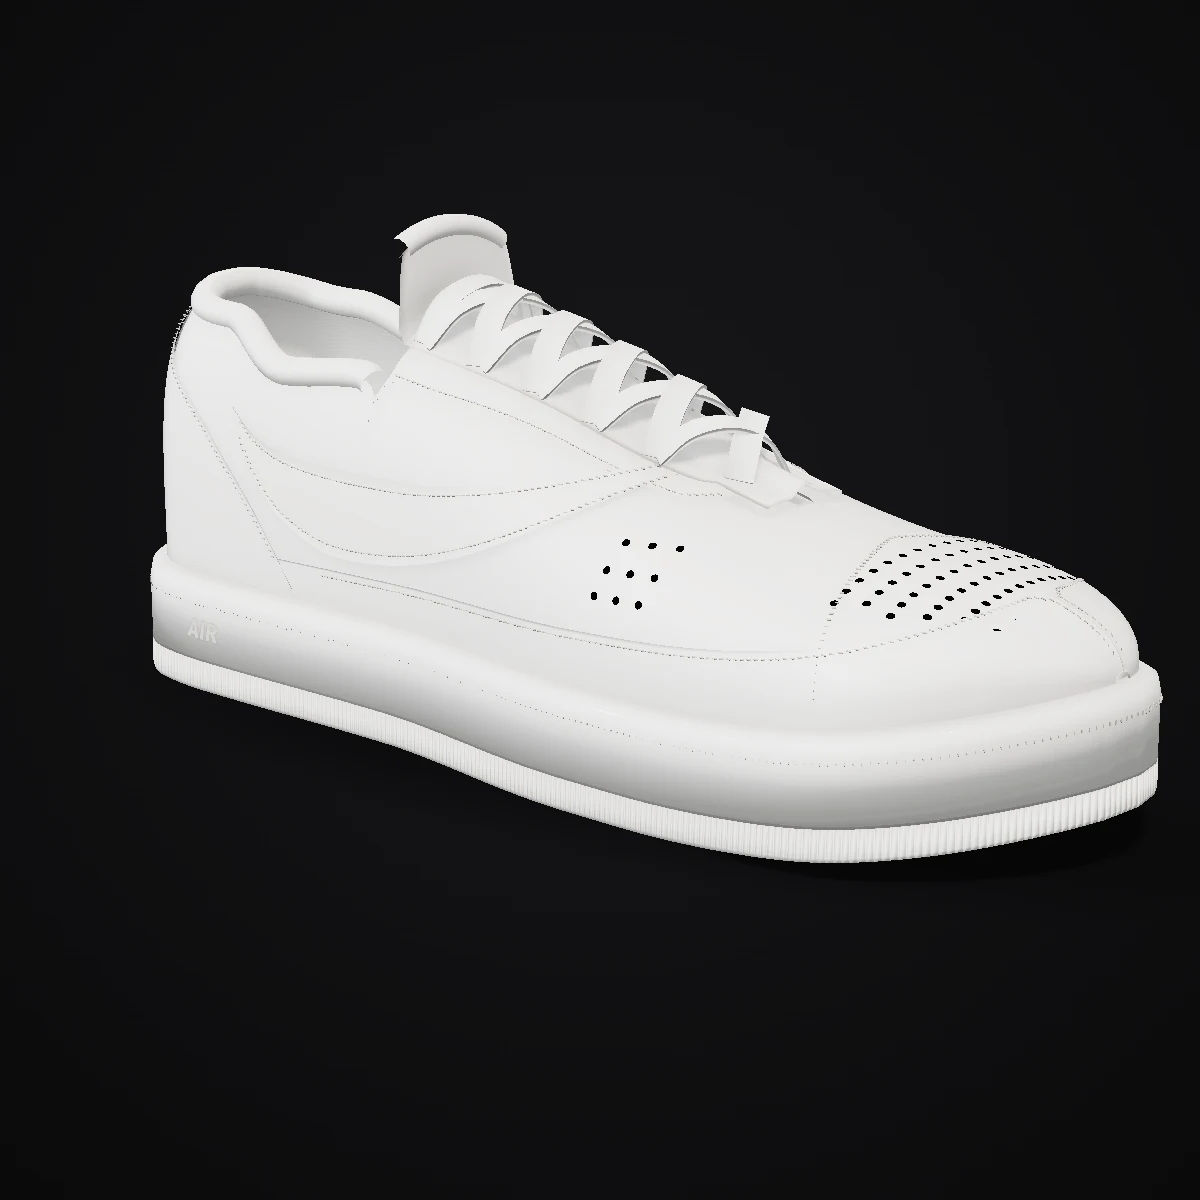
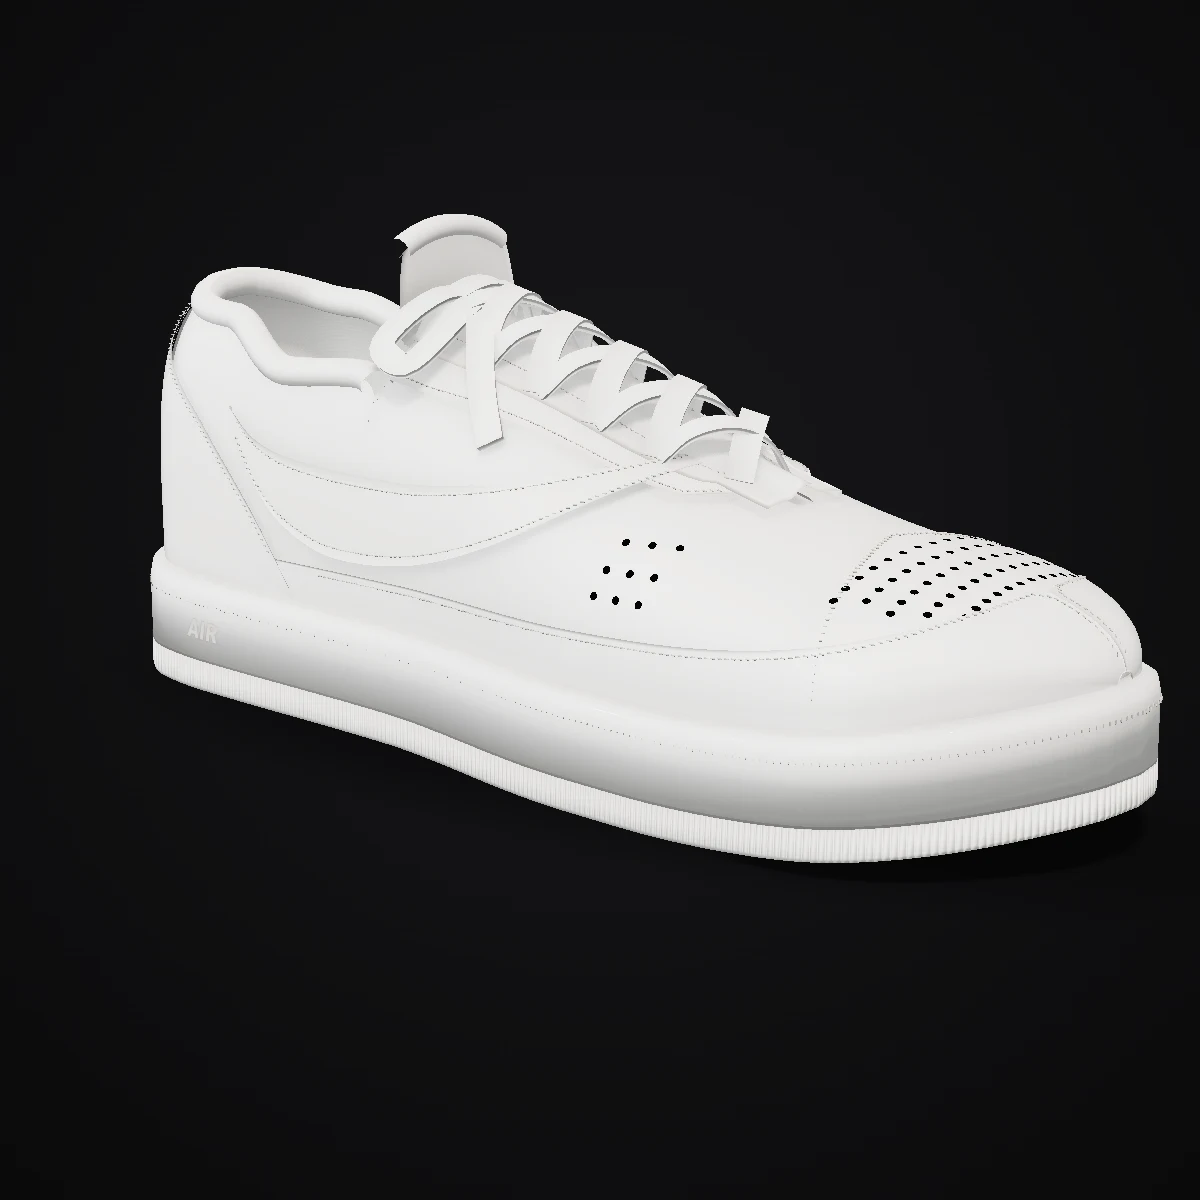
Add lace bows, thicker overlays, refined Mexico 66 stripes; update docs

diff --git a/src/three/models.js b/src/three/models.js
@@ -55,12 +55,12 @@ const perfGrid = (t0, rows, cols, dt, th0, dth, lift = 0.0032, r = 0.0034, tMax 
 }
 // Heel tab: strip over the back centre line, from sole to a height
 const heelTab = (half, yTop, o = {}) => (ctx) => {
-  const { slab, surf, backAt, S, spring, res, add } = ctx
+  const { slab, surf, backAt, S, spring, res, add, K } = ctx
   add(slab((u, v) => {
     const y0 = S(0.002) + spring(0.002) + (o.from ?? 0.004)
     const { t, th } = backAt(lerp(y0, yTop, u), (v - 0.5) * 2 * half * (1 - (o.taper ?? 0) * u))
     return surf(t, th)
-  }, res(30), res(8), o.d ?? 0.0028, { lift: o.lift ?? 0.0018 }), o.role ?? 'tab')
+  }, res(30), res(8), (o.d ?? 0.0028) * K, { lift: (o.lift ?? 0.0018) * K }), o.role ?? 'tab')
 }
 
 // Canvas drawings for decals; colours may come from the colorway
@@ -111,7 +111,7 @@ export const MODELS = {
     collarPad: 0.014, collarFront: -0.012,
     eyestay: { w: 0.055 },
     tongue: { wide: 0.03, rise: 0.07, back: 0.012, lift: 0.007, d: 0.012, rim: 0.011, tag: [0.034, 0.024] },
-    laces: { rows: 6, w: 0.024, d: 0.0045, arch: 0.016, start: 0.02, end: 0.008 },
+    laces: { rows: 6, w: 0.024, d: 0.0045, arch: 0.016, start: 0.02, end: 0.008, bow: { loop: 0.085, tail: 0.11, drop: 0.12 } },
     sole: { height: [[0, 0.108], [0.6, 0.098], [1, 0.092]], layers: CUP(0.021), lines: [{ grow: 0.0212, h: 0.29 }], stitch: { grow: 0.0208, h: 0.8 } },
     stripeAnchor: [0.36, 0.09],
     materials: { out: 'ribbed' },
@@ -150,7 +150,7 @@ export const MODELS = {
     collarPad: 0.012, collarFront: -0.01,
     eyestay: { w: 0.05 },
     tongue: { wide: 0.028, rise: 0.06, back: 0.005, lift: 0.006, d: 0.01, rim: 0.009, tag: [0.034, 0.03] },
-    laces: { rows: 9, w: 0.02, d: 0.004, arch: 0.012, start: 0.015, end: 0.008 },
+    laces: { rows: 9, w: 0.02, d: 0.004, arch: 0.012, start: 0.015, end: 0.008, bow: { loop: 0.075, tail: 0.1, drop: 0.12 } },
     sole: { height: [[0, 0.075], [0.6, 0.068], [1, 0.065]], layers: CUP(0.016), lines: [{ grow: 0.0162, h: 0.3 }], stitch: { grow: 0.0158, h: 0.75 } },
     stripeAnchor: [0.33, 0.11],
     materials: { tongue: 'nylon' },
@@ -180,7 +180,7 @@ export const MODELS = {
     collarPad: 0.008, collarFront: -0.012,
     eyestay: { w: 0.036 },
     tongue: { wide: 0.026, rise: 0.06, back: 0.02, lift: 0.004, d: 0.006, rim: 0.004, tag: [0.03, 0.022] },
-    laces: { rows: 7, w: 0.016, d: 0.003, arch: 0.01, start: 0.02, end: 0.008 },
+    laces: { rows: 7, w: 0.016, d: 0.003, arch: 0.01, start: 0.02, end: 0.008, bow: { loop: 0.07, tail: 0.095, drop: 0.11 } },
     sole: { height: [[0, 0.04], [0.6, 0.036], [1, 0.034]], toeWrap: 0.025, layers: FLAT(0.009) },
     stripeAnchor: [0.4, 0.1],
     materials: { toe: 'suede', out: 'rubber' },
@@ -209,7 +209,7 @@ export const MODELS = {
     collarPad: 0.009, collarFront: -0.01,
     eyestay: { w: 0 },
     tongue: { wide: 0.03, rise: 0.02, back: 0.0, lift: 0.002, d: 0.004, rim: 0.005 },
-    laces: { rows: 6, w: 0.009, style: 'rope', arch: 0.014, start: 0.02, end: 0.008, eyelets: 'none' },
+    laces: { rows: 6, w: 0.009, style: 'rope', arch: 0.014, start: 0.02, end: 0.008, eyelets: 'none', bow: { loop: 0.08, tail: 0.1, drop: 0.11 } },
     sole: {
       height: [[0, 0.125], [0.5, 0.105], [1, 0.09]],
       layers: [
@@ -250,7 +250,7 @@ export const MODELS = {
     collarPad: 0.016, collarFront: -0.012,
     eyestay: { w: 0.05 },
     tongue: { wide: 0.03, rise: 0.075, back: 0.012, lift: 0.007, d: 0.012, rim: 0.011, tag: [0.03, 0.03] },
-    laces: { rows: 6, w: 0.022, d: 0.004, arch: 0.014, start: 0.02, end: 0.008 },
+    laces: { rows: 6, w: 0.022, d: 0.004, arch: 0.014, start: 0.02, end: 0.008, bow: { loop: 0.085, tail: 0.11, drop: 0.12 } },
     sole: { height: [[0, 0.11], [0.6, 0.098], [1, 0.092]], layers: CUP(0.021), lines: [{ grow: 0.0212, h: 0.3 }], stitch: { grow: 0.0208, h: 0.78 } },
     stripeAnchor: [0.45, 0.1],
     materials: { out: 'ribbed' },
@@ -281,7 +281,7 @@ export const MODELS = {
     collarPad: 0.016, collarFront: -0.012,
     eyestay: { w: 0.045 },
     tongue: { wide: 0.03, rise: 0.06, back: 0.015, lift: 0.007, d: 0.01, rim: 0.01, tag: [0.03, 0.03] },
-    laces: { rows: 7, w: 0.016, d: 0.003, arch: 0.012, start: 0.02, end: 0.008 },
+    laces: { rows: 7, w: 0.016, d: 0.003, arch: 0.012, start: 0.02, end: 0.008, bow: { loop: 0.075, tail: 0.1, drop: 0.11 } },
     sole: {
       height: [[0, 0.15], [0.35, 0.13], [0.7, 0.095], [1, 0.085]],
       layers: [
@@ -325,7 +325,7 @@ export const MODELS = {
     collarPad: 0.005, collarFront: -0.006, collarOut: 0.3,
     eyestay: { w: 0.03 },
     tongue: { wide: 0.03, rise: 0.035, back: 0.005, lift: 0.004, d: 0.005, rim: 0.004 },
-    laces: { rows: 9, w: 0.016, d: 0.003, arch: 0.01, start: 0.015, end: 0.008, eyelets: 'metal' },
+    laces: { rows: 9, w: 0.016, d: 0.003, arch: 0.01, start: 0.015, end: 0.008, eyelets: 'metal', bow: { loop: 0.07, tail: 0.1, drop: 0.13 } },
     sole: {
       height: [[0, 0.088], [0.6, 0.085], [1, 0.085]],
       layers: VULC(0.011),
@@ -366,7 +366,7 @@ export const MODELS = {
     collarPad: 0.018, collarFront: -0.012, collarOut: 0.3,
     eyestay: { w: 0.045 },
     tongue: { wide: 0.03, rise: 0.06, back: 0.012, lift: 0.006, d: 0.01, rim: 0.01, tag: [0.03, 0.022] },
-    laces: { rows: 6, w: 0.016, d: 0.0035, arch: 0.012, start: 0.02, end: 0.008, eyelets: 'metal' },
+    laces: { rows: 6, w: 0.016, d: 0.0035, arch: 0.012, start: 0.02, end: 0.008, eyelets: 'metal', bow: { loop: 0.075, tail: 0.1, drop: 0.11 } },
     sole: {
       height: [[0, 0.088], [0.6, 0.084], [1, 0.084]],
       layers: VULC(0.011),
@@ -399,7 +399,7 @@ export const MODELS = {
     collarPad: 0.006, collarFront: -0.012,
     eyestay: { w: 0.03 },
     tongue: { wide: 0.024, rise: 0.05, back: 0.02, lift: 0.004, d: 0.005, rim: 0.004, tag: [0.026, 0.02] },
-    laces: { rows: 7, w: 0.014, d: 0.0028, arch: 0.009, start: 0.02, end: 0.008 },
+    laces: { rows: 7, w: 0.014, d: 0.0028, arch: 0.009, start: 0.02, end: 0.008, bow: { loop: 0.065, tail: 0.09, drop: 0.1 } },
     sole: { height: [[0, 0.036], [0.6, 0.03], [1, 0.03]], toeWrap: 0.03, layers: FLAT(0.008) },
     stripeAnchor: [0.47, 0.11],
     materials: { toe: 'suede', out: 'rubber' },
@@ -416,8 +416,8 @@ export const MODELS = {
       mudguard([[0.56, 0.004], [0.64, 0.03], [0.76, 0.045], [0.88, 0.06], [0.95, 0.09], [1, 0.2]], { role: 'toe', d: 0.0026 }),
       counter([[0, 0.23], [0.05, 0.17], [0.1, 0.11], [0.15, 0.05], [0.18, 0.004]]),
       // Crossing stripes: two thick S-curves
-      ribbon('stripe', [[0.24, 0.034], [0.32, 0.046], [0.4, 0.074], [0.46, 0.108], [0.51, 0.142], [0.56, 0.166]], [[0.24, 0.03], [0.4, 0.046], [0.56, 0.036]], 0.24, 0.56),
-      ribbon('stripe', [[0.37, 0.166], [0.42, 0.15], [0.48, 0.118], [0.54, 0.08], [0.6, 0.05], [0.67, 0.034]], [[0.37, 0.034], [0.5, 0.046], [0.67, 0.03]], 0.37, 0.67, { lift: 0.0048 }),
+      ribbon('stripe', [[0.22, 0.03], [0.32, 0.038], [0.4, 0.056], [0.46, 0.082], [0.51, 0.112], [0.55, 0.142], [0.585, 0.172]], [[0.22, 0.016], [0.32, 0.034], [0.45, 0.044], [0.58, 0.02]], 0.22, 0.58),
+      ribbon('stripe', [[0.36, 0.172], [0.39, 0.142], [0.43, 0.112], [0.48, 0.082], [0.54, 0.056], [0.61, 0.038], [0.69, 0.03]], [[0.36, 0.018], [0.48, 0.044], [0.6, 0.034], [0.68, 0.016]], 0.36, 0.68, { lift: 0.0048 }),
       heelTab(0.018, 0.2, { taper: 0.1 }),
     ],
   },

diff --git a/src/three/shoe.js b/src/three/shoe.js
@@ -187,6 +187,7 @@ function build(key, detail) {
 
   // Panels: 't' mode spans t, with th range per t on each side
   const seams = []
+  const K = M.thick ?? 1.7 // overlay thickness scale (real leather is ~1.5 mm)
   const inset = (t, th, dist, dir) => th + (dir * dist) / dTh(t, th)
   const panel = (role, t0, t1, a, b, o = {}) => {
     const sides = o.sides ?? [1, -1]
@@ -199,14 +200,14 @@ function build(key, detail) {
       add(slab((u, v) => {
         const t = lerp(t0, t1, (1 - cos(PI * u)) / 2), [A, B] = range(t)
         return surf(t, mirror(lerp(A, B, v), side))
-      }, res(o.nu ?? 60), res(o.nv ?? 10), o.d ?? 0.0022, { lift: o.lift ?? 0.0006, walls: o.walls }), role)
+      }, res(o.nu ?? 60), res(o.nv ?? 10), (o.d ?? 0.0022) * K, { lift: (o.lift ?? 0.0006) * K, walls: o.walls }), role)
       if (X && o.stitch) for (const edge of o.stitch) {
         const path = []
         for (let i = 0; i <= 80; i++) {
           const t = lerp(t0 + (o.stitchTrim ?? 0.004), t1 - (o.stitchTrim ?? 0.004), i / 80), [A, B] = range(t)
           if (B - A < 0.02) continue
           const th = edge === 'b' ? inset(t, B, 0.006, -1) : inset(t, A, 0.006, 1)
-          path.push({ p: PO(t, mirror(th, side), (o.lift ?? 0.0006) + (o.d ?? 0.0022)), n: N(t, mirror(th, side)) })
+          path.push({ p: PO(t, mirror(th, side), ((o.lift ?? 0.0006) + (o.d ?? 0.0022)) * K), n: N(t, mirror(th, side)) })
         }
         if (path.length > 2) seams.push(path)
       }
@@ -217,19 +218,19 @@ function build(key, detail) {
     add(slab((u, v) => {
       const th = lerp(th0, th1, u)
       return surf(lerp(a(th), b(th), v), th)
-    }, res(o.nu ?? 60), res(o.nv ?? 20), o.d ?? 0.0022, { lift: o.lift ?? 0.0004, walls: o.walls }), role)
+    }, res(o.nu ?? 60), res(o.nv ?? 20), (o.d ?? 0.0022) * K, { lift: (o.lift ?? 0.0004) * K, walls: o.walls }), role)
     if (X && o.stitch) {
       const path = []
       for (let i = 0; i <= 90; i++) {
         const th = lerp(th0 + 0.03, th1 - 0.03, i / 90), t = a(th) + 0.009
-        path.push({ p: PO(t, th, (o.lift ?? 0.0004) + (o.d ?? 0.0022)), n: N(t, th) })
+        path.push({ p: PO(t, th, ((o.lift ?? 0.0004) + (o.d ?? 0.0022)) * K), n: N(t, th) })
       }
       seams.push(path)
     }
   }
   // Side graphics: (u, v) -> [t, yRel]
   const band = (role, fn, o = {}) => {
-    const lift = o.lift ?? 0.0016, d = o.d ?? 0.0018
+    const lift = (o.lift ?? 0.0016) * K, d = (o.d ?? 0.0018) * K
     for (const side of o.sides ?? [1, -1]) {
       add(slab((u, v) => {
         const [t, y] = fn(u, v)
@@ -252,6 +253,7 @@ function build(key, detail) {
   // Punched holes at (t, th) positions on the given surface lift
   const perfs = (list, r = 0.0032, lift = 0.0028) => {
     if (!X) return
+    lift *= K
     const o = new THREE.Object3D(), mats = []
     for (const [t, th] of list) {
       const p = PO(t, th, lift), n = N(t, th)
@@ -273,7 +275,7 @@ function build(key, detail) {
         const th = o.onSole ? 0 : thY(t, y, side)
         const p = o.onSole
           ? V(xOf(t), y * S(t) + spring(t), side * (W(t) + o.grow) * (side < 0 ? zScale(t, -1) : 1))
-          : PO(t, th, o.lift ?? 0.005)
+          : PO(t, th, (o.lift ?? 0.005) * K)
         const n = o.onSole ? V(0, 0, side) : N(t, th)
         const uu = side > 0 || o.mirrorMedial ? u : 1 - u
         pts.push({ p, n, u: uu, v })
@@ -287,11 +289,11 @@ function build(key, detail) {
     const nu = 16, nv = 8, pts = []
     for (let i = 0; i <= nu; i++) for (let j = 0; j <= nv; j++) {
       const u = i / nu, v = j / nv, { t, th } = backAt(lerp(o.y0, o.y1, v), (0.5 - u) * 2 * o.half)
-      pts.push({ p: PO(t, th, o.lift ?? 0.006), n: N(t, th), u, v })
+      pts.push({ p: PO(t, th, (o.lift ?? 0.006) * K), n: N(t, th), u, v })
     }
     parts.push({ geometry: gridGeometry(pts, nu, nv), role: 'decal', decal: { key, draw, w: o.w ?? 256, h: o.h ?? 256 } })
   }
-  const ctx = { decal, backDecal, perfs, backAt, seams, P, N, PO, W, H, S, spring, thY, thZ, thB, zB, yRel, tO, tS, tE, mirror, panel, cap, band, add, addInstanced, X, res, slab, surf, knots, fC, fG }
+  const ctx = { K, decal, backDecal, perfs, backAt, seams, P, N, PO, W, H, S, spring, thY, thZ, thB, zB, yRel, tO, tS, tE, mirror, panel, cap, band, add, addInstanced, X, res, slab, surf, knots, fC, fG }
   for (const fn of M.panels ?? []) fn(ctx)
 
   // Eyestays along the throat
@@ -416,14 +418,33 @@ function build(key, detail) {
     const [pts, nrm] = lacePath(rows[0], eyeZ(rows[0]), rows[0], -eyeZ(rows[0]))
     add(laceGeo(pts, nrm), 'lace')
   }
-  // Bow resting on the top bar
+  // Bow on the top bar: knot, two loops lying on the upper, two hanging ends
   if (L.bow) {
-    const c = tongueAt(rows[0] + 0.012, 0, laceLift + 0.004)
+    const tk = rows[0] + 0.006, k = tongueAt(tk, 0, laceLift + 0.006)
+    const on = (t, z, lift) => { const th = z >= 0 ? thZ(t, min(abs(z), W(t) * 0.98)) : thZ(t, min(abs(z), W(t) * 0.98), -1); return { p: PO(t, th, lift), n: N(t, th) } }
+    const knot = new THREE.SphereGeometry(L.w * 0.42, 12, 8)
+    knot.scale(1.3, 0.7, 1)
+    knot.translate(k.p.x, k.p.y + L.w * 0.15, k.p.z)
+    add(knot, 'lace')
     for (const side of [1, -1]) {
-      const loop = [c.p.clone(), c.p.clone().add(V(-0.012, 0.012, side * 0.035)), c.p.clone().add(V(0.022, 0.02, side * 0.07)), c.p.clone().add(V(0.05, 0.008, side * 0.05)), c.p.clone().add(V(0.012, 0.002, side * 0.008))]
-      add(laceGeo(loop, loop.map(() => V(0, 1, 0))), 'lace')
-      const tail = [c.p.clone(), c.p.clone().add(V(0.03, -0.004, side * 0.03)), c.p.clone().add(V(0.06, -0.03, side * 0.075)), c.p.clone().add(V(0.075, -0.07, side * 0.11))]
-      add(laceGeo(tail, tail.map(() => V(side * 0.3, 1, 0).normalize())), 'lace')
+      const B = L.bow
+      const loop = [
+        { p: k.p.clone(), n: k.n },
+        on(tk - 0.012, side * B.loop * 0.45, laceLift + 0.012),
+        on(tk - 0.02, side * B.loop, laceLift + 0.006),
+        on(tk + 0.012, side * B.loop * 1.05, laceLift + 0.005),
+        on(tk + 0.016, side * B.loop * 0.4, laceLift + 0.01),
+        { p: k.p.clone().add(V(0.004, 0.002, side * 0.004)), n: k.n },
+      ]
+      add(laceGeo(loop.map((q) => q.p), loop.map((q) => q.n)), 'lace')
+      const tEnd = tk + B.drop
+      const tail = [
+        { p: k.p.clone().add(V(0.003, 0, side * 0.003)), n: k.n },
+        on(tk + B.drop * 0.3, side * B.tail * 0.35, laceLift + 0.008),
+        on(tk + B.drop * 0.7, side * B.tail * 0.75, 0.01),
+        on(tEnd, side * B.tail, 0.006),
+      ]
+      add(laceGeo(tail.map((q) => q.p), tail.map((q) => q.n)), 'lace')
     }
   }
 

diff --git a/README.md b/README.md
@@ -19,17 +19,19 @@ npm run preview    # serve dist/ locally
 
 ## How the 3D works
 
-- `src/three/shoe.js` builds a procedural low-top sneaker. Geometry is cached per silhouette, so a colorway only swaps materials.
+- `src/three/shoe.js` builds a procedural sneaker from a model description: last shape, collar line, throat, panels, stitching, laces with a bow, sole layers and decals. Geometry is cached per model, so a colorway only swaps materials.
+- `src/three/models.js` holds the nine silhouettes (`af1`, `aj1`, `samba`, `yeezy`, `nb550`, `nb990`, `chuck`, `vans`, `mexico`).
+- `src/three/textures.js` generates the leather, suede, canvas, knit and mesh maps plus the zebra knit pattern.
 - Each product's `model3D` in `src/data/products.json` decides how it is shown:
-  - an object `{ stripe, sole, perf, colors }` → procedural shoe
+  - `{ "model": "af1", "colors": { ... } }` → procedural shoe; colour roles are `base`, `toe`, `mudguard`, `heel`, `eyestay`, `collar`, `stripe`, `tab`, `tongue`, `tag`, `lace`, `mid`, `out`, `thread`, `lining`, `accent`
   - a string `"/models/x.glb"` → any GLB, auto-scaled to the same footprint
   - `null` → photos only
 - Hotspots use `"at": "toe" | "laces" | "tongue" | "collar" | "heel" | "stripe" | "stitching" | "sole"` for procedural shoes, or `"position": [x, y, z]` for GLBs.
-- Stripe variants: `swoosh`, `three`, `jazz`, `tiger`, `n`, `line`, `none`.
+- The viewer and the photo renderer share one studio: key/fill/rim lights, room environment, ambient occlusion (N8AO) and ACES tone mapping.
 
 ## Product photos
 
-Photos in `public/img/products/` are rendered from the same model. After changing a colorway, run `npm run dev`, open `/render.html` and click **Download all**. The page is dev-only and not part of the build.
+Photos in `public/img/products/` and `public/og.webp` are rendered from the same models. After changing a model or colorway, run `npm run dev`, open `/render.html` and click **Download all**. Add `?debug` to colour every part differently, `?only=ORI-NK-AF1-001` for one product, `?views=1,2,back,above` for other angles. The page is dev-only and not part of the build.
 
 ## Structure
 

diff --git a/PROMPTS.md b/PROMPTS.md
@@ -11,7 +11,8 @@ Catat setiap pemakaian AI yang penting. Ini bahan manual PDF bagian 5a dan prese
 | 5 | 2026-10-07 | Visual | Claude Code + three.js | Render foto studio dari model prosedural | 18 foto `public/img/products/*.webp` (3/4 + samping), `og.webp`, ilustrasi SVG hoodie & tee | — |
 | 6 | 2026-10-07 | Copy | Claude Code | Teks hotspot per produk | Label & deskripsi hotspot di `products.json` | Review tim |
 | 7 | 2026-10-07 | Code / UI | Claude Code | "Tutup gap KONSEP + polish" | Rak 3D model kubus per brand, viewer (sudut kamera, zoom, hotspot fly-to), katalog + filter, sertifikat verifikasi, wishlist → cart, checkout, menu mobile, size guide | — |
-| 8 | | 3D | (Meshy / Tripo / Rodin) | Foto AF1 → image-to-3D | `public/models/nike-af1.glb` (opsional, viewer sudah mendukung GLB) | gltf-transform optimize |
+| 8 | 2026-10-07 | 3D | Claude Code | "Modelnya masih kurang bagus, poles sampai 90% mirip produk asli" | Generator ditulis ulang per model: 9 siluet (low/high-top, cupsole, vulkanisir, Boost), panel overlay, jahitan, tali + simpul, decal teks, knit zebra, ambient occlusion. Dibandingkan dengan foto referensi Wikimedia Commons per iterasi | Cek kemiripan per produk |
+| 9 | | 3D | (Meshy / Tripo / Rodin) | Foto AF1 → image-to-3D | `public/models/nike-af1.glb` (opsional, viewer sudah mendukung GLB) | gltf-transform optimize |
 
 ## Before / After
 
